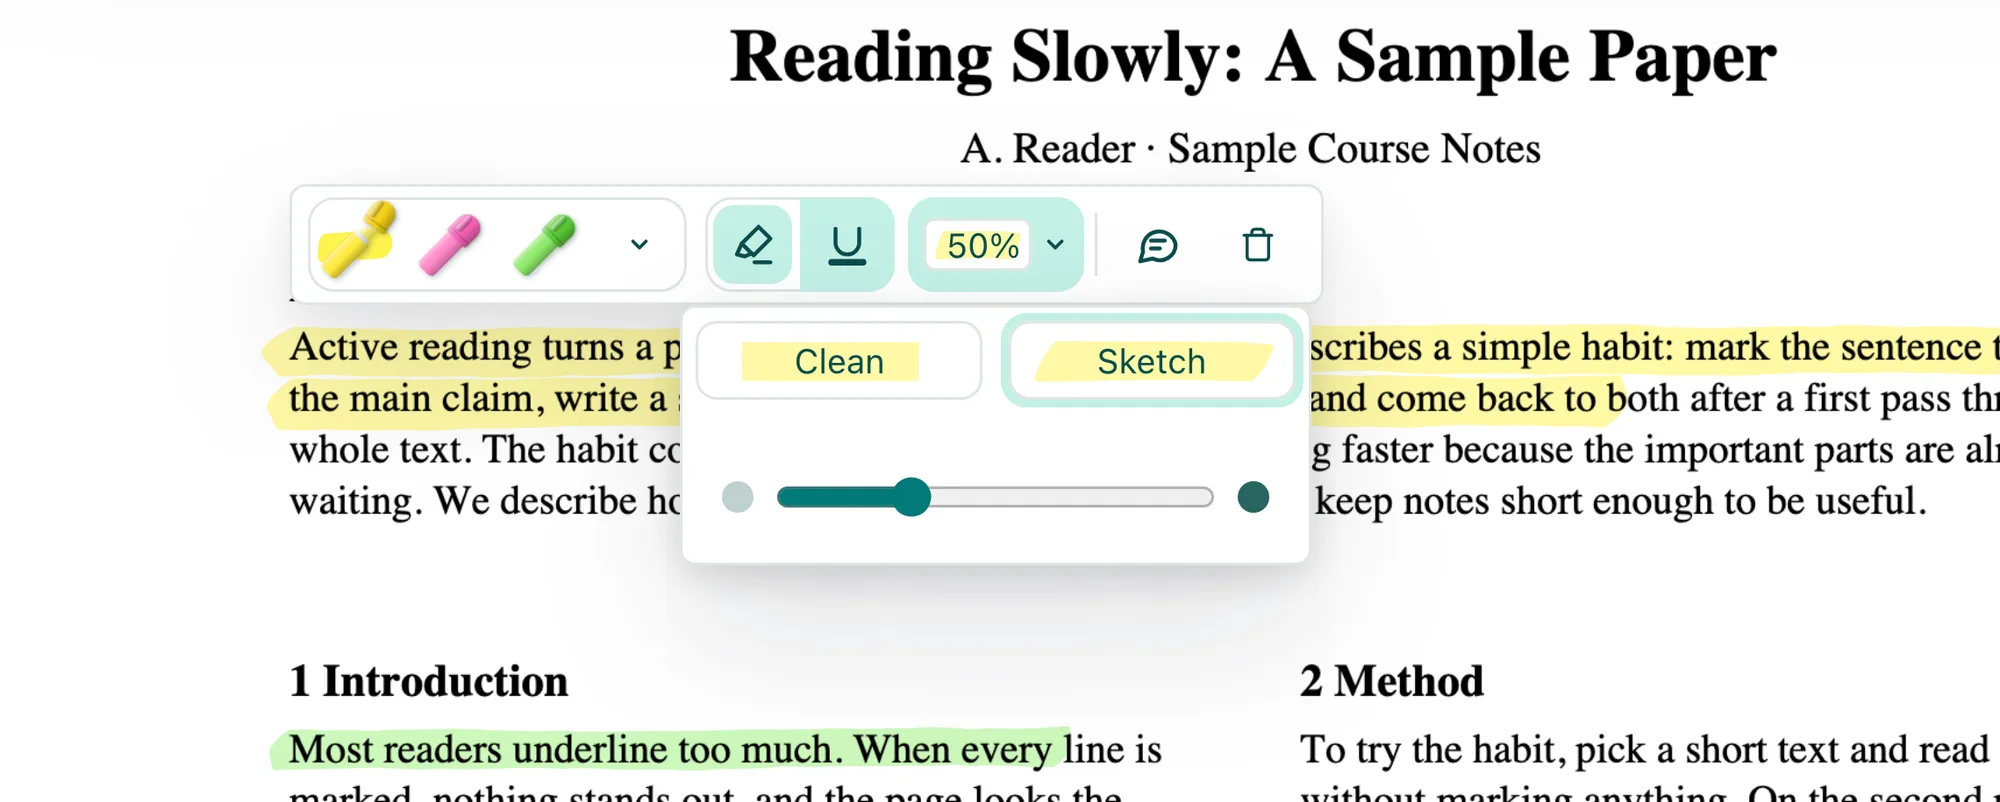
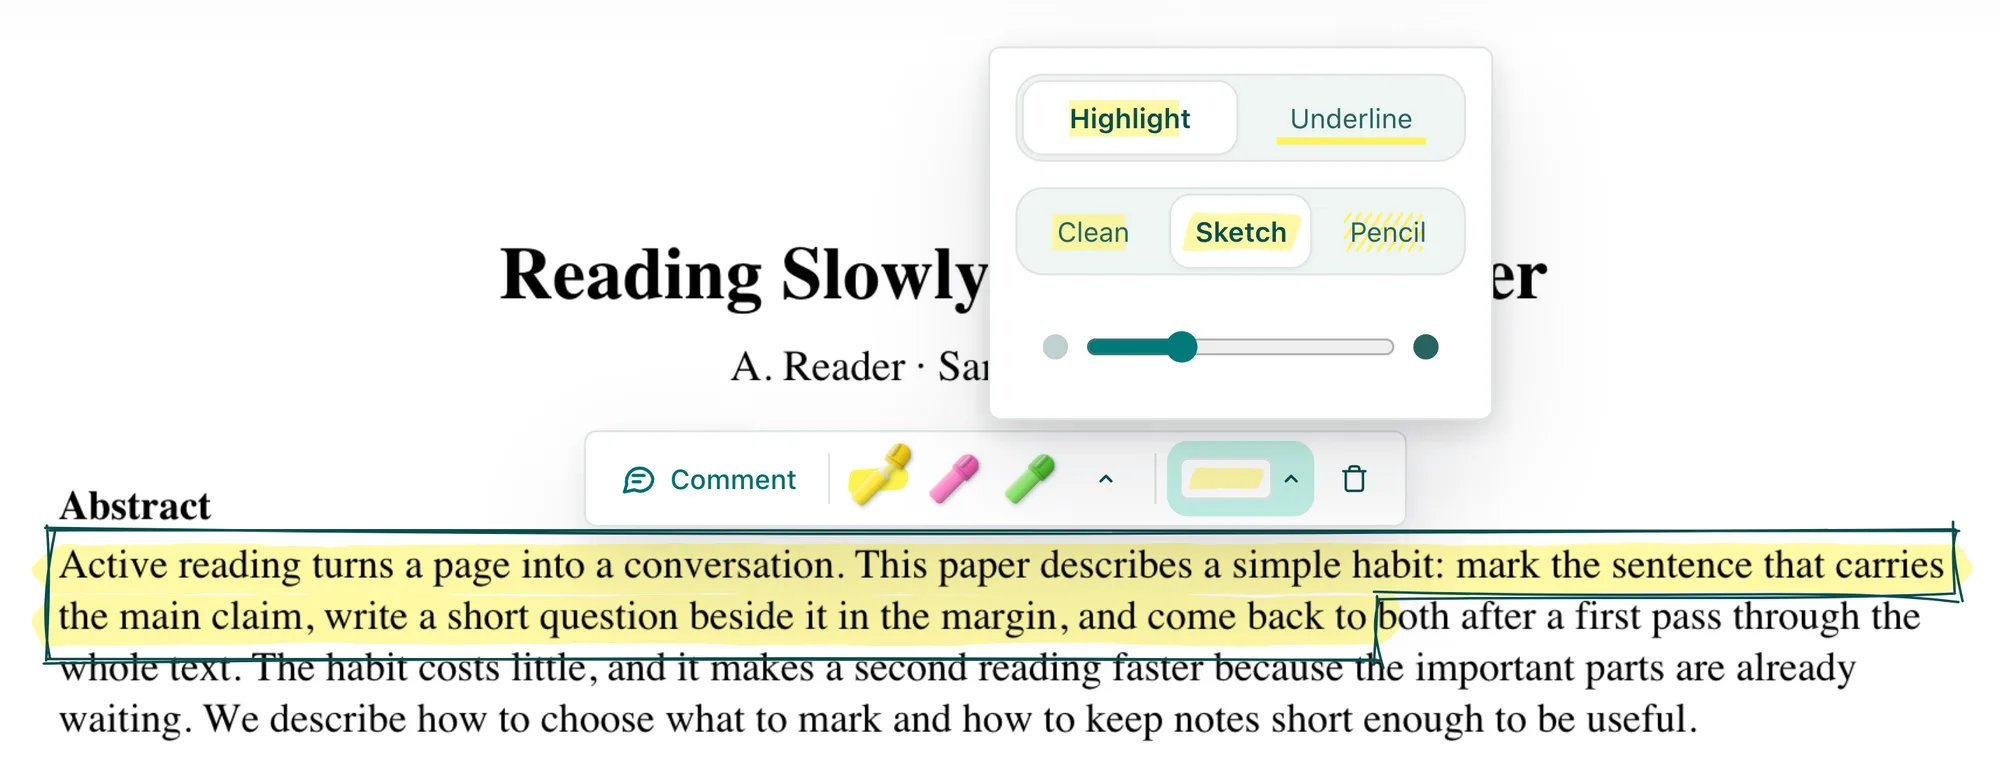
READ-24: the guide shows the new row and its Look menu; READ-25 files the rename

diff --git a/BACKLOG.md b/BACKLOG.md
@@ -2,7 +2,7 @@
 
 # Backlog
 
-The canonical backlog is the task-file collection in [backlog/tasks/](backlog/tasks/). This view is generated and read-only. 167 live: 58 up next, 23 then, 27 waiting, 59 parked.
+The canonical backlog is the task-file collection in [backlog/tasks/](backlog/tasks/). This view is generated and read-only. 168 live: 58 up next, 23 then, 27 waiting, 60 parked.
 
 ## Redact: finish removal
 
@@ -76,6 +76,7 @@ Marking should feel like holding a highlighter, not like operating software. Ske
 | READ-07 | P3 | [READ-07](backlog/tasks/READ-07.md) · Highlight PDF: long-press and drag to highlight on a phone | Needs Shlomi: An iPhone check |
 | READ-08 | P3 | [READ-08](backlog/tasks/READ-08.md) · Highlight PDF: hop between your highlights in reading order |  |
 | READ-09 | P3 | [READ-09](backlog/tasks/READ-09.md) · Highlight PDF: a pen for circles, arrows and margin notes, iPad first |  |
+| READ-25 | P3 | [READ-25](backlog/tasks/READ-25.md) · The mark row's code says what it is now: a click opens it, not a rest |  |
 
 ## Scan: camera to WhatsApp
 

diff --git a/backlog/tasks/READ-25.md b/backlog/tasks/READ-25.md
@@ -1,0 +1,22 @@
+---
+id: "READ-25"
+title: "The mark row's code says what it is now: a click opens it, not a rest"
+status: "open"
+priority: "P3"
+epic: "highlight-pdf"
+horizon: "later"
+depends_on: []
+---
+
+# READ-25 · The mark row's code says what it is now
+
+*Filed 2026-11-06 from READ-24, where a rest stopped opening anything.*
+
+`RestToolbar`, `useRestToolbar`, `useToolbarDismissal`'s home and `data-rest-toolbar` still carry the name of the
+gesture that used to open the row. A rest now only draws the faint outline; a click or keyboard focus opens it. A
+reader of the code is told the wrong thing.
+
+## Outcome
+
+The row's component, hook, styles and test hook read as the mark row (13 files), the rest detector keeps its name
+because it still detects a rest, and no behaviour changes. One mechanical commit, kept apart from any feature work.
